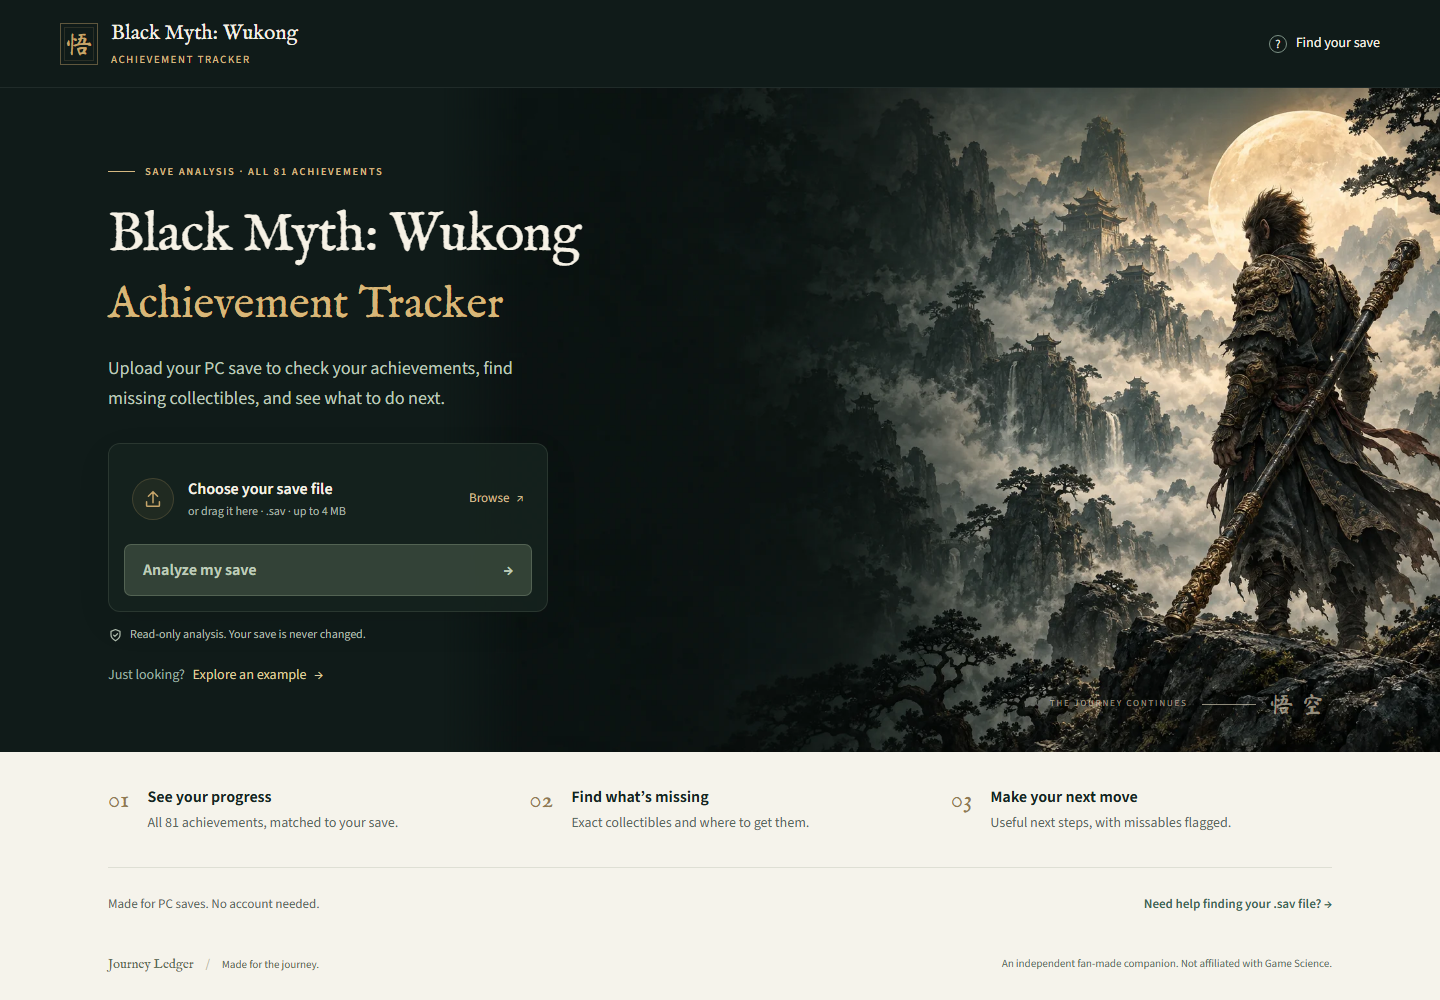
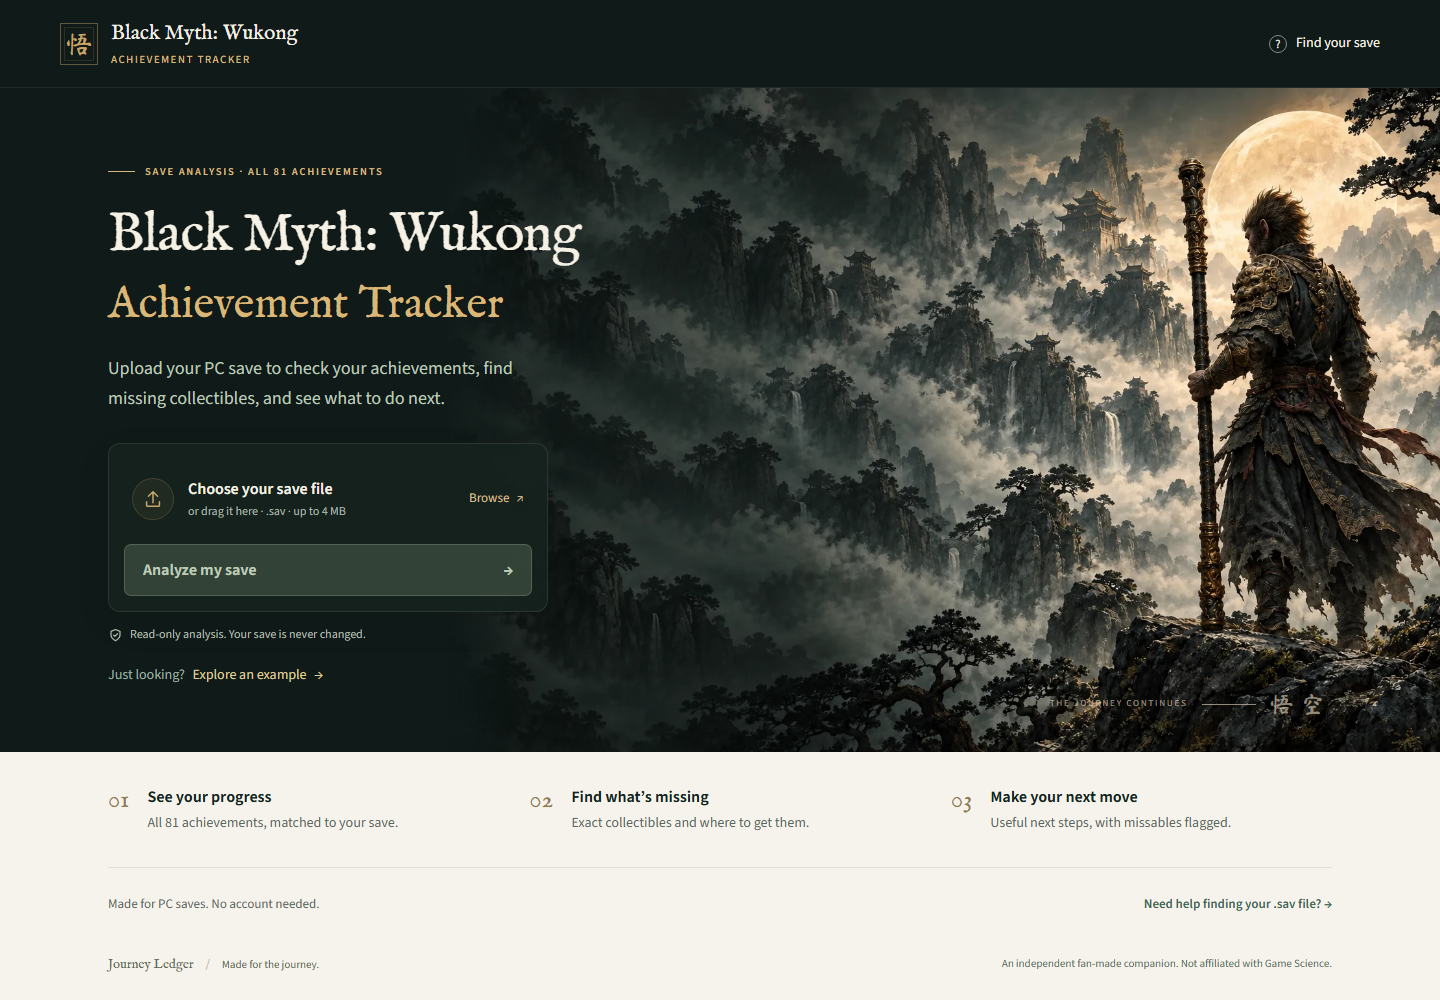
Replace hero artwork with corrected hand-held staff

Changed region(s): [[0.3438, 0.093, 1.0, 0.744], [0.4688, 0.062, 0.6562, 0.186]]

diff --git a/bmw_web/wwwroot/index.html b/bmw_web/wwwroot/index.html
@@ -52,7 +52,7 @@
             </div>
             <div class="hero-caption" aria-hidden="true"><span>THE JOURNEY CONTINUES</span><span class="caption-line"></span><span>悟空</span></div>
           </div>
-          <img class="hero-art" src="/images/journey-hero.webp" alt="" width="1536" height="1024" fetchpriority="high" />
+          <img class="hero-art" src="/images/journey-hero-v2.webp" alt="" width="1536" height="1024" fetchpriority="high" />
         </section>
 
         <section class="how-it-works page-shell" aria-label="What you get from your save">

diff --git a/assets/FRONTEND_ART.md b/assets/FRONTEND_ART.md
@@ -1,6 +1,8 @@
 # Frontend artwork
 
-The hero at `bmw_web/wwwroot/images/journey-hero.webp` was created with the built-in ImageGen tool for this frontend overhaul. It is custom fan artwork, not an official game screenshot. The original generated PNG is preserved in the Codex generated-images folder. FFmpeg encoded the shipped WebP at quality 85 without changing the composition (2.3 MB PNG to 189 KB WebP).
+The original hero at `bmw_web/wwwroot/images/journey-hero.webp` was created with the built-in ImageGen tool for this frontend overhaul. It is custom fan artwork, not an official game screenshot. The original generated PNG is preserved in the Codex generated-images folder.
+
+The current hero, `bmw_web/wwwroot/images/journey-hero-v2.webp`, is the user's ChatGPT edit supplied on October 1, 2026. It corrects the staff so the character visibly grips it upright and restores mountain and mist texture on the left. FFmpeg encoded the supplied 1536 by 1024 PNG as WebP at quality 88 without changing its composition. The original WebP remains available for rollback.
 
 The design uses the artwork's forest charcoal, jade, parchment fog, and bronze palette. The palette service was unavailable, so the artwork colors informed the CSS tokens. IM Fell English gives the English headings an inked manuscript texture; Ma Shan Zheng supplies Chinese brush lettering for the 悟 mark and 悟空 caption. Source Sans 3 keeps controls and long guides readable. These fonts are hosted locally with their OFL licenses in `bmw_web/wwwroot/fonts/`. Ma Shan Zheng is subset to the two displayed Chinese characters.
 
